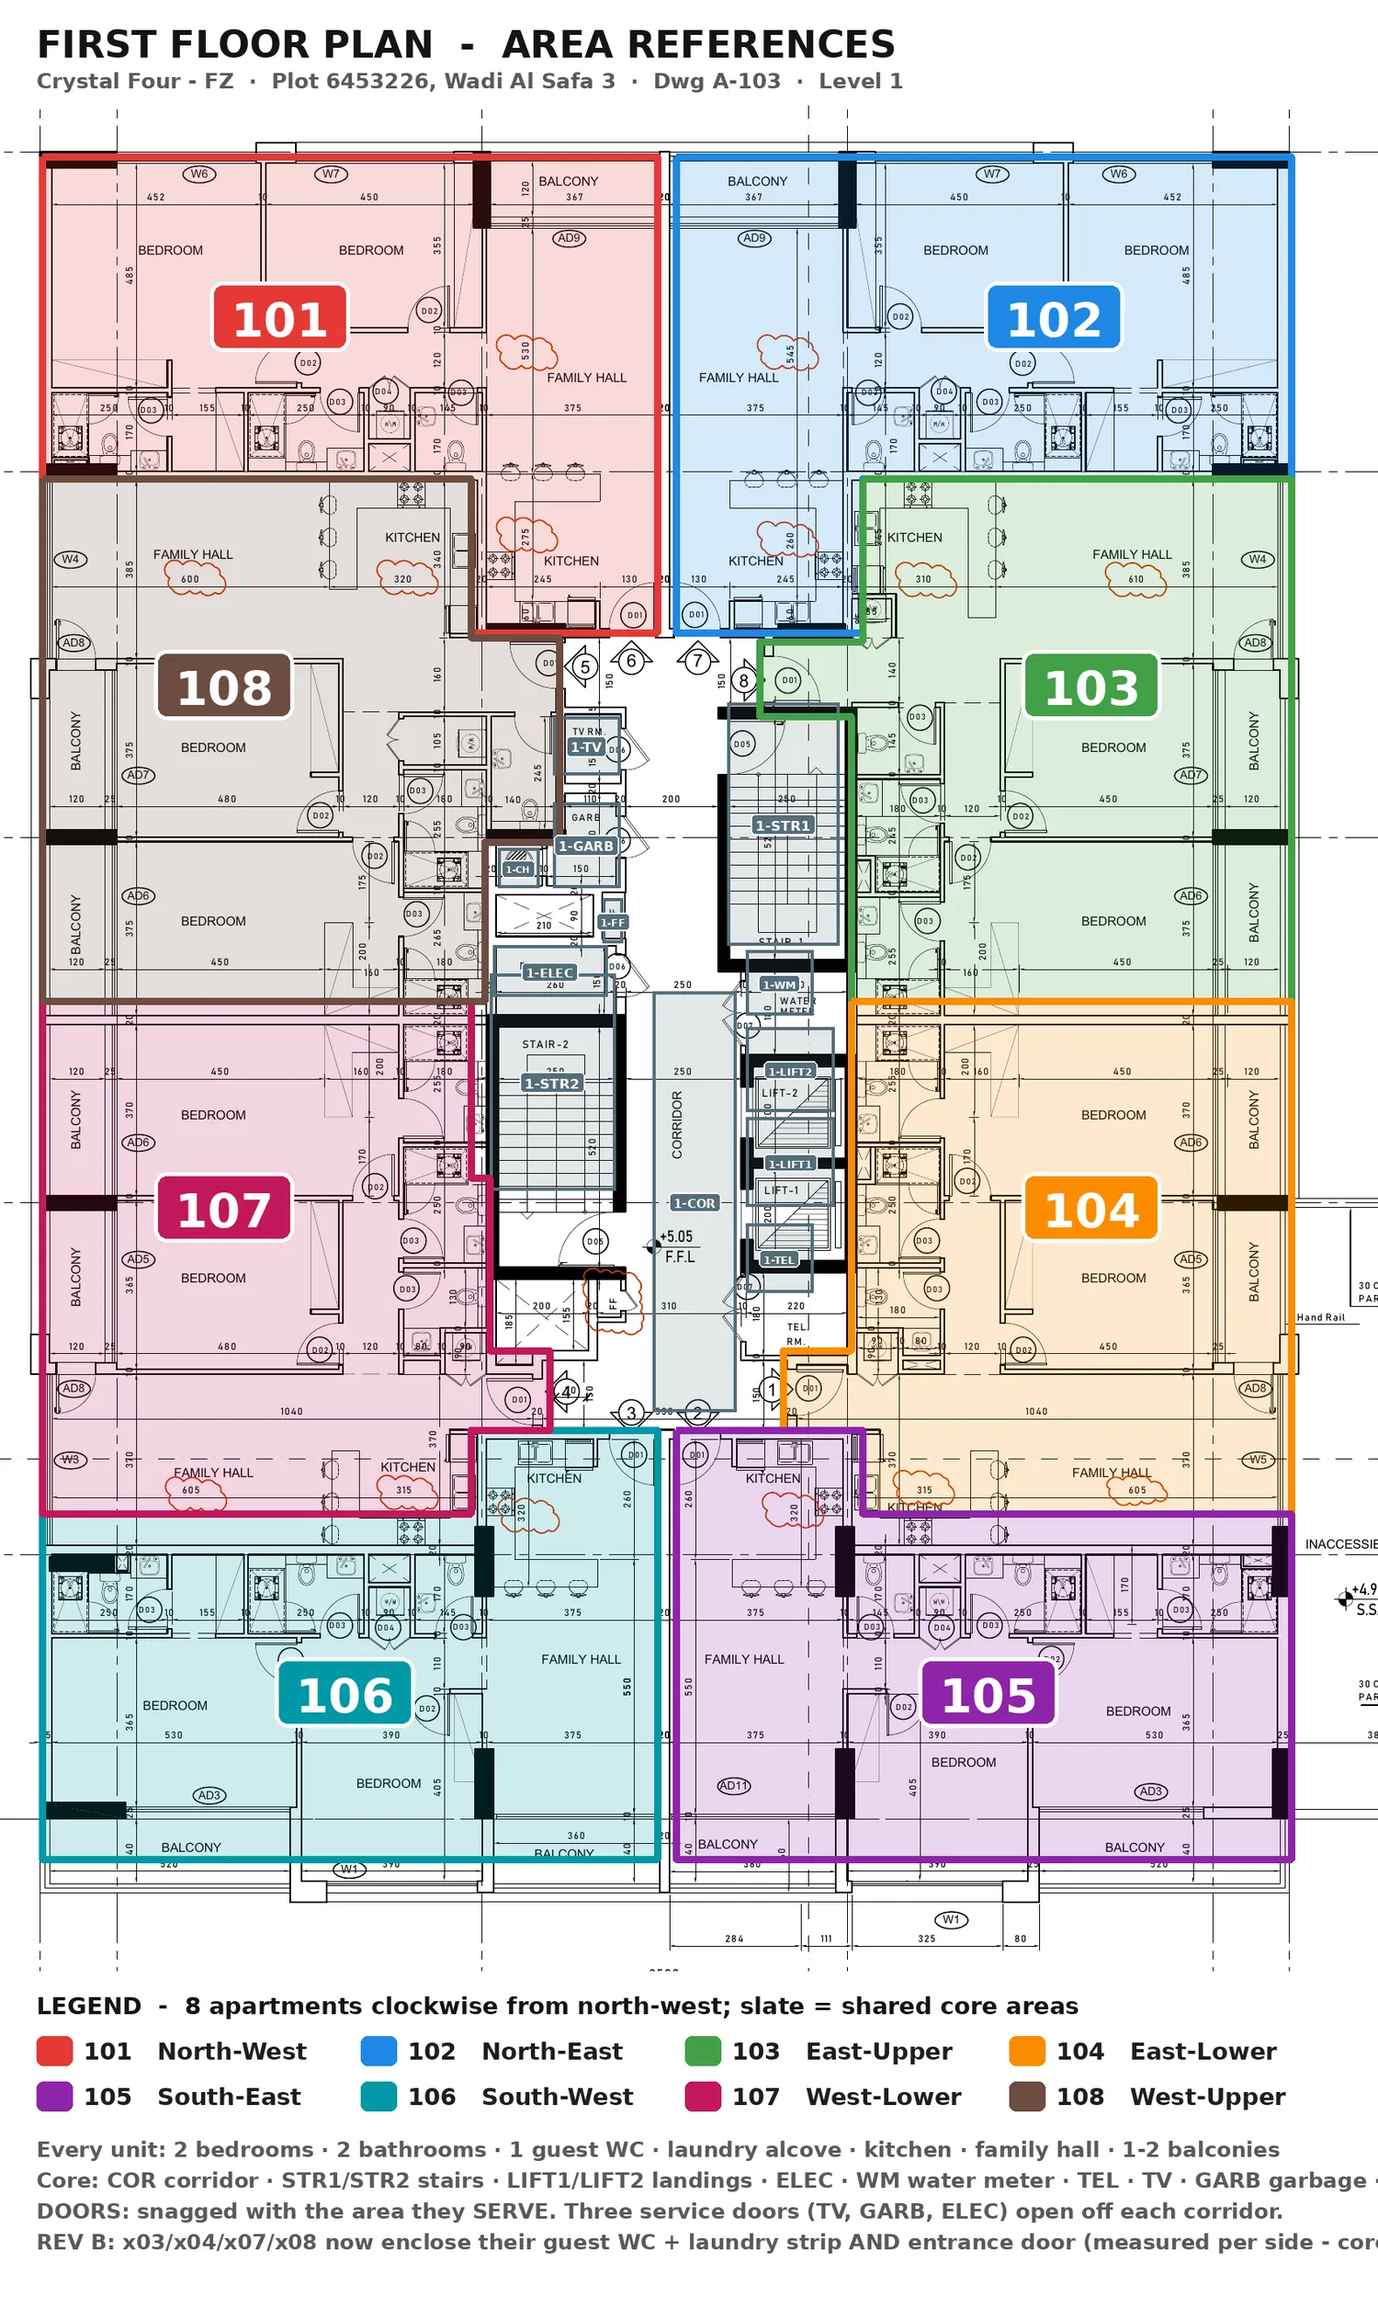
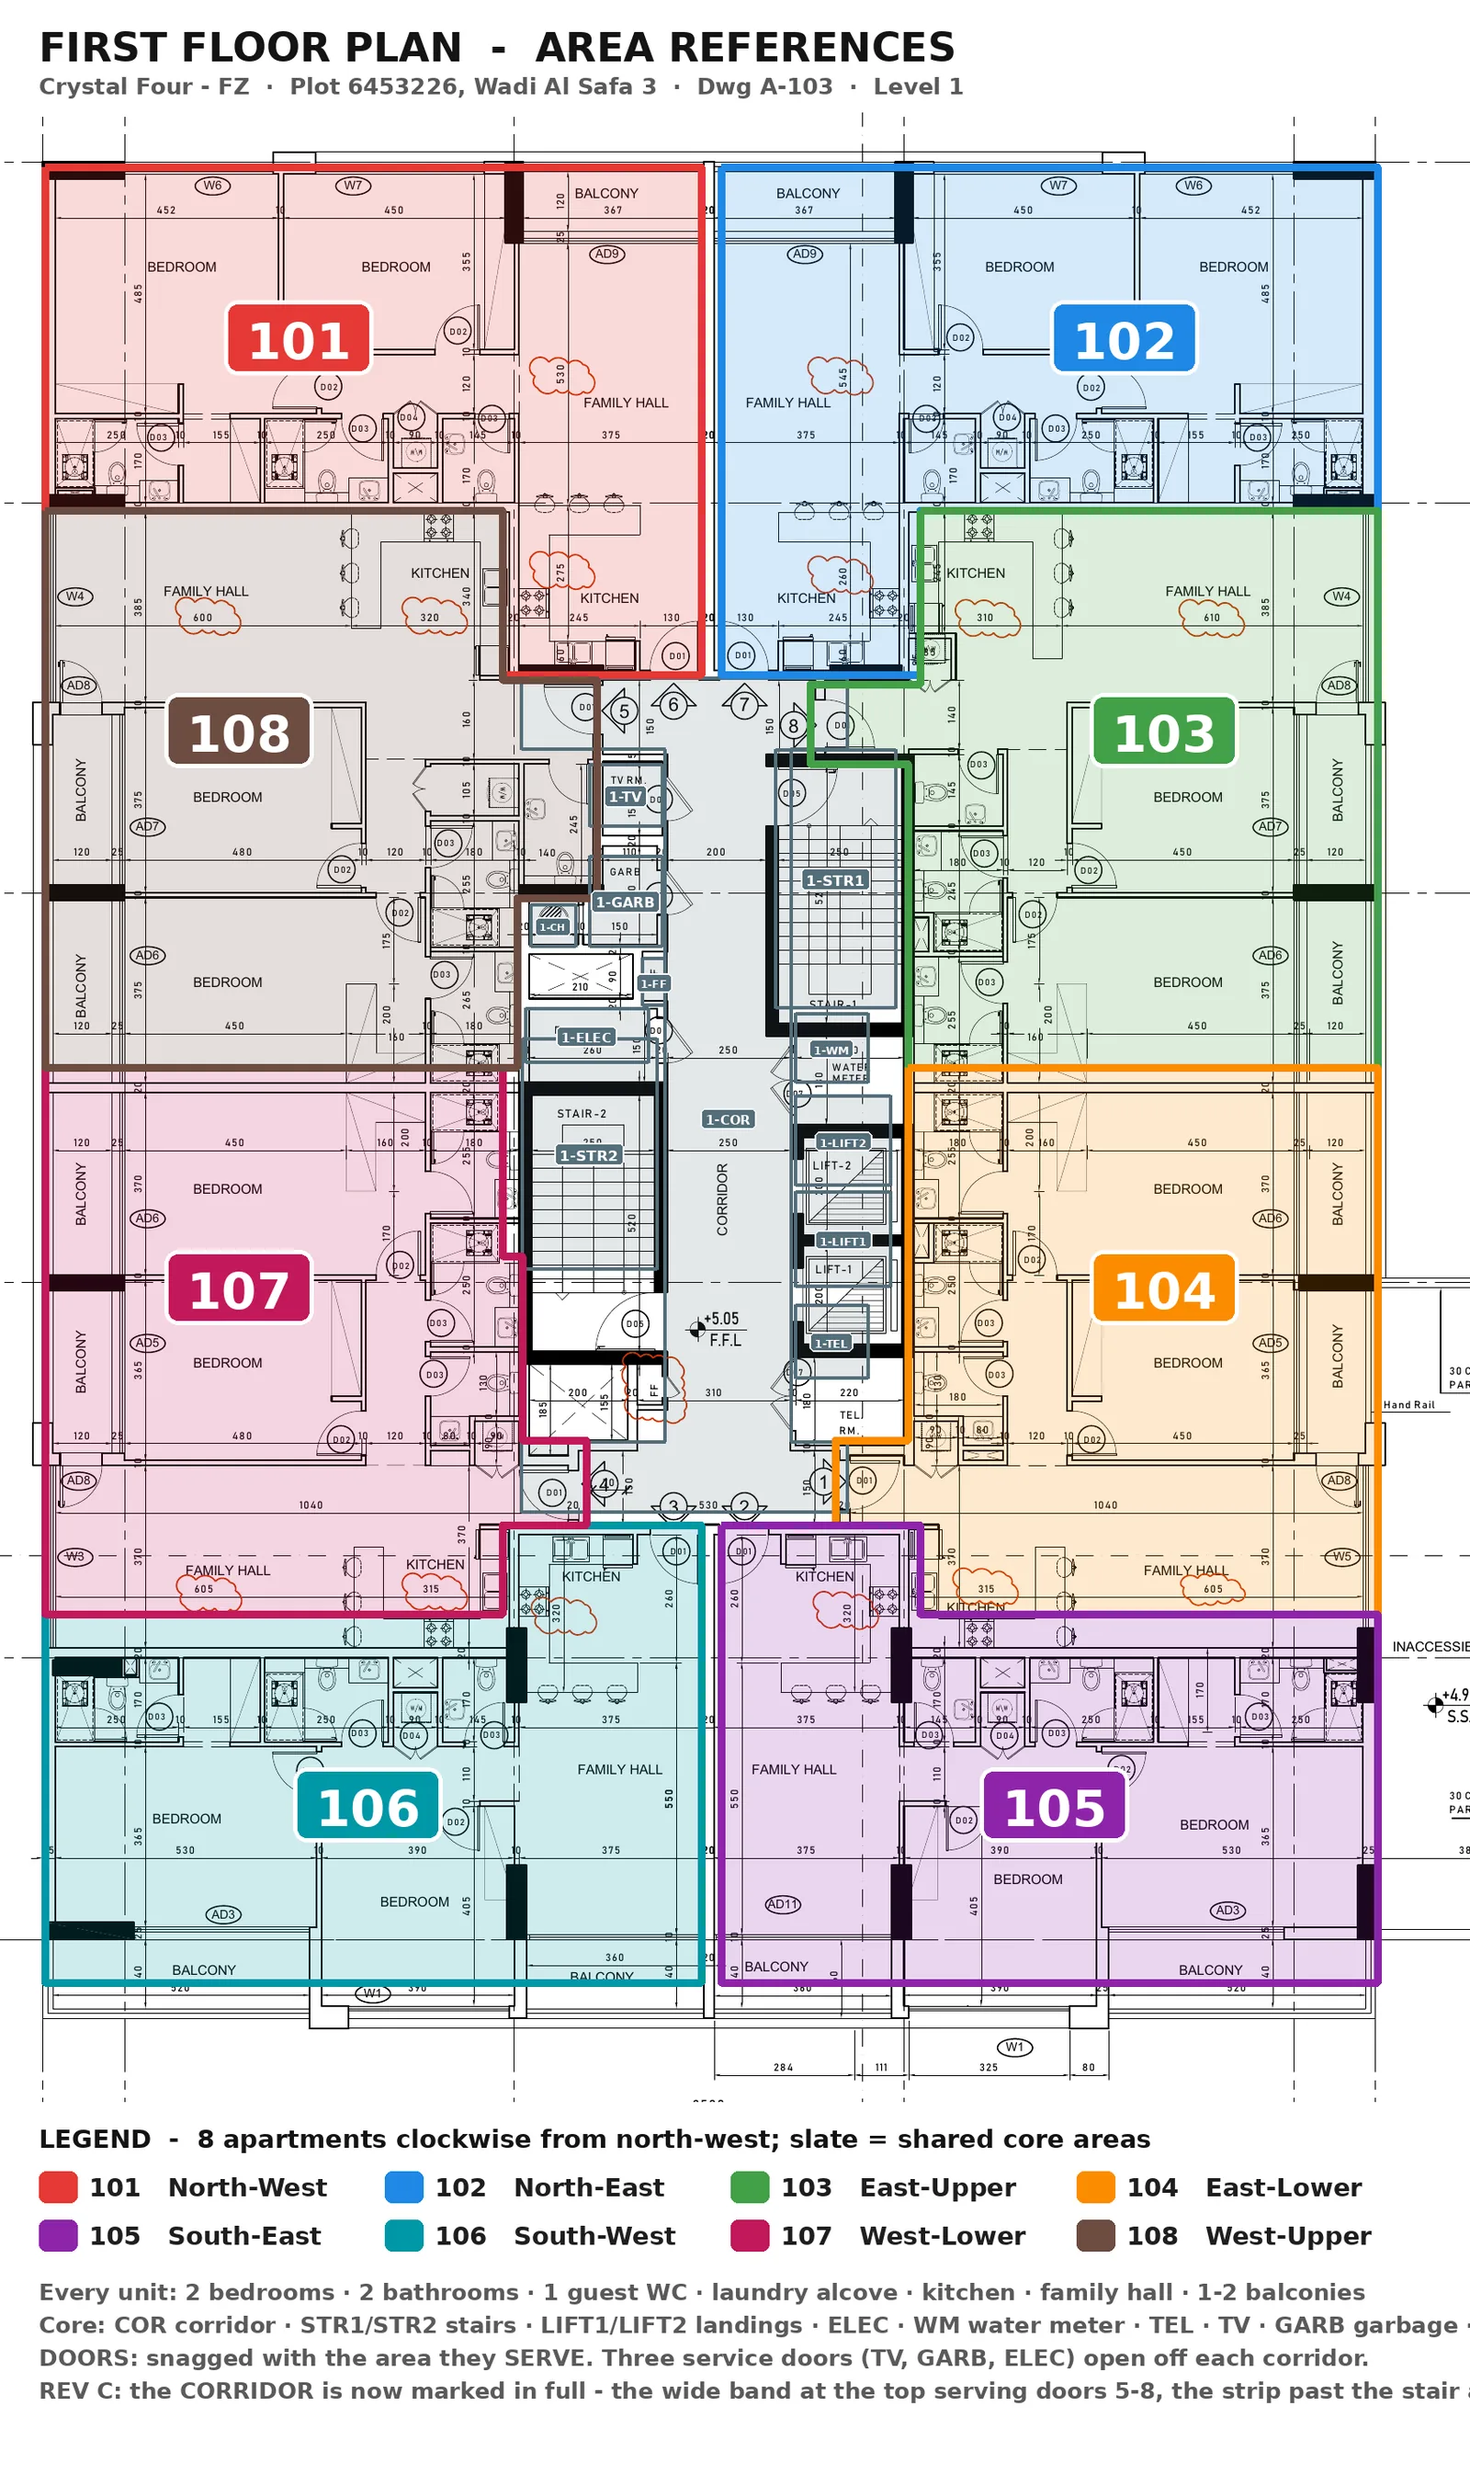
Correct the marked-up plans and expand the FAHU checklist
Plans:
- Typical floor corridor is an I-shape, not a strip: the wide band at the
  top serving doors 5-8, the run past the stair and lifts, and the band at
  the bottom serving doors 1-4.
- Ground corridor now runs the full west side; the lobby turns east below
  the lifts to take in the reception counter; the duplicated ground pump
  room is gone (A-101 showed it is the underground one).
- Roof: the pool is the whole 600 x 1150 rectangle with the kids pool
  walled off in its corner; the deck picks up the loungers below it; the
  gym wraps the pump room down to the store; a new amenity corridor serves
  the toilets and changing room; and the four condenser banks on the open
  slab are marked from AC-05.

FAHU-1 checklist now covers the unit as built: pre-filters and bag filters
separately, both fans, both heat recovery wheels with their seals and purge
sector, the cooling coil, dampers and their actuators, the MicroMax VFD and
the UV lamps specified downstream of the coil.

Claude-Session: https://claude.ai/code/session_01LwH4tpG6QsknZegt3wVWwN

diff --git a/src/building/areaChecklists.ts b/src/building/areaChecklists.ts
@@ -540,19 +540,40 @@ const C: Partial<Record<AreaKind, AreaChecklist>> = {
   },
   fahu: {
     icon: 'pump',
-    discs: ['civil', 'electrical', 'hvac', 'mechanical'],
+    discs: ['civil', 'electrical', 'hvac', 'mechanical', 'fire'],
     items: {
       civil: ['Plinth — level, no cracking', 'Access all round the unit'],
-      electrical: ['Power supply, isolator and labelling', 'Earthing'],
+      electrical: [
+        'Power supply, isolator and labelling',
+        'Earthing',
+        'Supply fan motor — 11.34 kW, connections and labelling',
+        'Extract fan motor — 10.30 kW, connections and labelling',
+        'MicroMax VFD wheel speed controller — fitted and powered',
+        'UV lamp fixtures — fitted downstream of the cooling coil, powered, lamps present',
+      ],
       hvac: [
         'SAND TRAP fitted and clean — critical in this climate',
         'Fresh air louvre (FAL) and exhaust air louvre (EAL) clear',
-        'Filters fitted, clean and accessible',
-        'Coil condition',
+        'PRE-FILTERS — fitted, clean, correct size, seated in frame',
+        'BAG FILTERS — fitted, clean, correct size, no bypass around the frame',
+        'Filter access doors open and close, gauges/manometers fitted',
+        'Supply fan — condition, impeller, belt/drive, guard',
+        'Extract fan — condition, impeller, belt/drive, guard',
+        'SORPTION (enthalpy) heat recovery wheel — rotates freely, belt intact, seals set',
+        'SENSIBLE heat recovery wheel — rotates freely, belt intact, seals set',
+        'Wheel purge sector set, no cross-contamination gap',
+        'Cooling coil — fins, cleanliness, no damage',
+        'Dampers — fresh air, extract, bypass: free movement, no binding',
+        'Damper ACTUATORS — fitted, wired, stroke full open to full closed',
         'Ductwork connections and insulation',
         'Airflow at terminals',
       ],
       mechanical: ['Casing weatherproofing and panel fixings', 'Vibration isolation', 'Drain trap fitted and primed', 'Noise level'],
+      fire: [
+        'Fire dampers (FD) on the FAHU connections — fitted and accessible',
+        'Motorised smoke & fire dampers (MSFD) — fitted, accessible, labelled',
+        'Fire damper access panels provided',
+      ],
     },
   },
   exhaust_fan: {

diff --git a/src/building/registry.ts b/src/building/registry.ts
@@ -149,6 +149,7 @@ export const CRYSTAL_FOUR: BuildingDef = {
         { ref: 'R-WC2', label: 'Toilet 2', kind: 'wc', group: 'amenity', dwg: 'A-105' },
         { ref: 'R-WC3', label: 'Toilet 3', kind: 'wc', group: 'amenity', dwg: 'A-105' },
         { ref: 'R-WC4', label: 'Toilet 4 (accessible)', kind: 'wc', group: 'amenity', dwg: 'A-105' },
+        { ref: 'R-COR', label: 'Amenity corridor', kind: 'corridor', group: 'circulation', dwg: 'A-105', note: 'Strip west of the toilet block — the accessible WC, second WC and changing room open onto it' },
         { ref: 'R-CHG', label: 'Changing room', kind: 'changing', group: 'amenity', dwg: 'A-105' },
         { ref: 'R-SHWR', label: 'Shower', kind: 'changing', group: 'amenity', dwg: 'A-105' },
         { ref: 'R-PPLANT', label: 'Pool pump room', kind: 'pool_plant', group: 'plant', dwg: 'A-105', note: 'AC unit R-3, 3.40 kW' },
